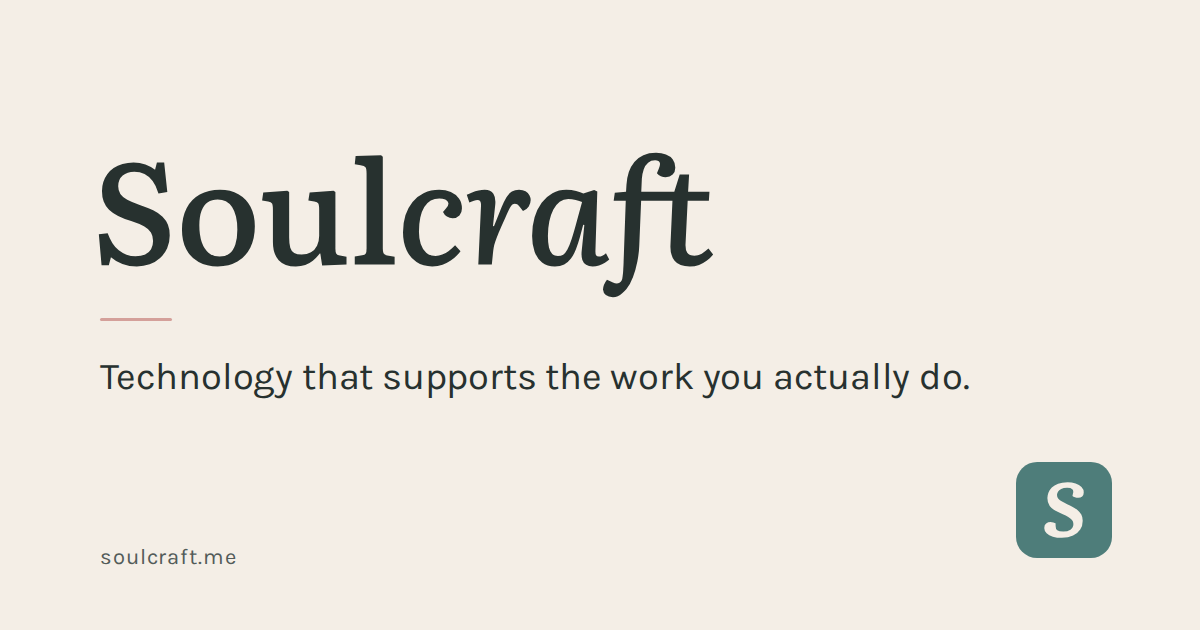
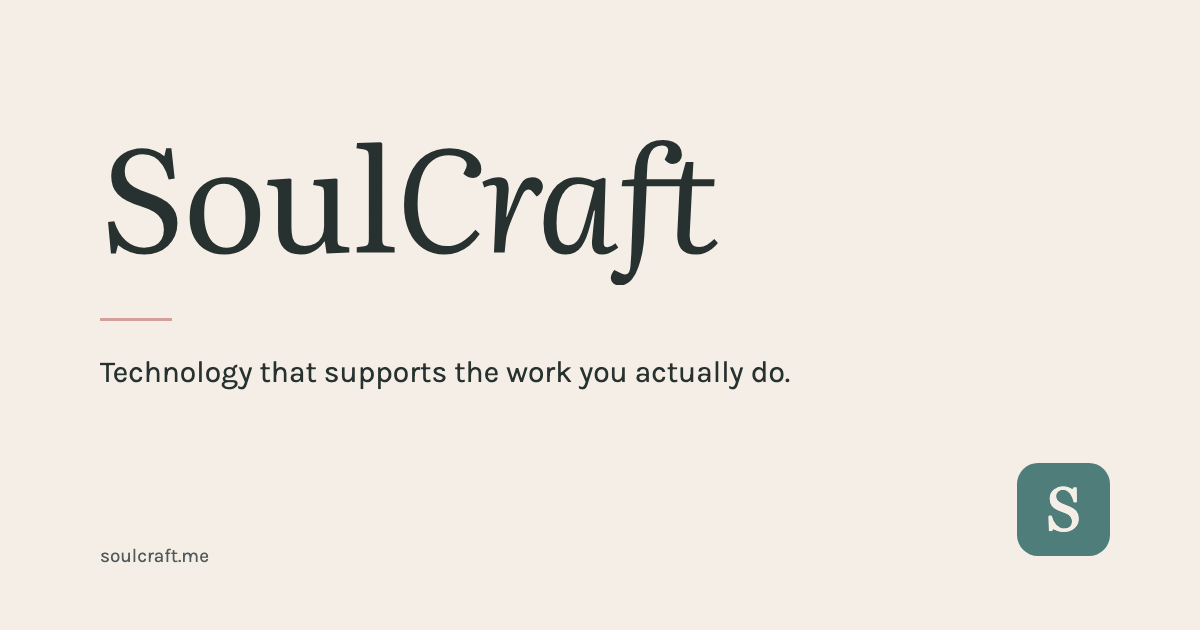
SoulCraft wordmark, two hero pills, card footer, About last
Four things Ed asked for on 2026-10-05.

Logo: the C of Craft is now capital. Regenerated from the Literata variable
outlines rather than edited, so the shapes are genuine. Identifying the
original's settings mattered: a first attempt at weight 500 / opsz 72 came out
visibly finer than the shipped asset, so I pixel-diffed candidates against
assets/logo.svg and matched it at weight 400, opsz 36, tracking -0.02em. BRAND.md
claimed 500 and -0.01em and had never matched the asset; it now records what is
actually true, plus how to regenerate. Ratio moves 4.145 to 4.262, so the nav and
footer width attributes move with it.

The two email PNGs keep their exact 680x168 canvas. Emails already sitting in
inboxes hardcode width=150 height=37, so a new aspect ratio would squash the logo
in mail already sent; the wordmark is fitted inside the old canvas instead.
og.png regenerated in the same composition.

Hero: the plain underlined link becomes a second pill in rose with ink text
(5.93:1), so the two calls to action read as siblings rather than a button and an
afterthought.

Quick-Win card: 'Not sure yet? Email...' and the Instagram line move out of the
right column into a full-width row under both columns, separated by a hairline.
They were never part of the booking flow and were squeezing the column.

About moves after Path Collective, so the page order finally matches the nav:
Consulting, Podcast, Path Collective, About.
[…]

diff --git a/index.html b/index.html
@@ -97,7 +97,7 @@
 
 <header class="site-nav">
   <div class="wrap">
-    <a class="brand" href="#top"><img src="assets/logo.svg" alt="Soulcraft" width="149" height="36"></a>
+    <a class="brand" href="#top"><img src="assets/logo.svg" alt="Soulcraft" width="153" height="36"></a>
     <button class="nav-toggle" type="button" aria-expanded="false" aria-controls="nav-menu">
       <svg class="ico-menu" viewBox="0 0 24 24" fill="none" stroke="currentColor" stroke-width="1.75" stroke-linecap="round" stroke-linejoin="round" aria-hidden="true"><path d="M4 7h16M4 12h16M4 17h16"/></svg>
       <svg class="ico-close" viewBox="0 0 24 24" fill="none" stroke="currentColor" stroke-width="1.75" stroke-linecap="round" stroke-linejoin="round" aria-hidden="true"><path d="M6 6l12 12M18 6L6 18"/></svg>
@@ -124,7 +124,7 @@
         <p class="hero__sub">I help facilitators, community builders and small practices make their tools work for them, starting with <em>one small, useful thing</em>, and growing from there.</p>
         <div class="hero__actions">
           <a class="btn btn--primary" href="#quick-win">Start with a Quick-Win Session ↓</a>
-          <a class="hero__secondary" href="#podcast">Listen to Behind The Practice ↓</a>
+          <a class="btn btn--rose" href="#podcast">Listen to Behind The Practice ↓</a>
         </div>
       </div>
       <div class="hero__art" aria-hidden="true">
@@ -192,6 +192,8 @@
           <p class="qw__credit">If we go on to build something together within 30 days, the $149 comes off the first invoice.</p>
           <p class="qw__flow muted">Pay, then pick a time that suits you. Sessions run Tuesday to Thursday, 10am to 4pm Melbourne. If none of the times work, email me at <a href="mailto:eduardo@soulcraft.me?subject=Quick-Win%20Session%20time">eduardo@soulcraft.me</a> and we'll lock one in together.</p>
           <a class="btn btn--primary js-book" href="#quick-win">Book a Quick-Win Session</a>
+        </div>
+        <div class="qw__foot">
           <p class="qw__hi">Not sure yet? Email <a class="js-sayhi" href="mailto:eduardo@soulcraft.me?subject=Say%20hi">eduardo@soulcraft.me</a> or message me on Instagram. A message costs nothing.</p>
           <p class="qw__ig small"><a class="iconlink" href="https://www.instagram.com/eduardo.mexaus" target="_blank" rel="noopener"><svg class="ico ico--brand" viewBox="0 0 24 24" aria-hidden="true"><path d="M7.0301.084c-1.2768.0602-2.1487.264-2.911.5634-.7888.3075-1.4575.72-2.1228 1.3877-.6652.6677-1.075 1.3368-1.3802 2.127-.2954.7638-.4956 1.6365-.552 2.914-.0564 1.2775-.0689 1.6882-.0626 4.947.0062 3.2586.0206 3.6671.0825 4.9473.061 1.2765.264 2.1482.5635 2.9107.308.7889.72 1.4573 1.388 2.1228.6679.6655 1.3365 1.0743 2.1285 1.38.7632.295 1.6361.4961 2.9134.552 1.2773.056 1.6884.069 4.9462.0627 3.2578-.0062 3.668-.0207 4.9478-.0814 1.28-.0607 2.147-.2652 2.9098-.5633.7889-.3086 1.4578-.72 2.1228-1.3881.665-.6682 1.0745-1.3378 1.3795-2.1284.2957-.7632.4966-1.636.552-2.9124.056-1.2809.0692-1.6898.063-4.948-.0063-3.2583-.021-3.6668-.0817-4.9465-.0607-1.2797-.264-2.1487-.5633-2.9117-.3084-.7889-.72-1.4568-1.3876-2.1228C21.2982 1.33 20.628.9208 19.8378.6165 19.074.321 18.2017.1197 16.9244.0645 15.6471.0093 15.236-.005 11.977.0014 8.718.0076 8.31.0215 7.0301.0839m.1402 21.6932c-1.17-.0509-1.8053-.2453-2.2287-.408-.5606-.216-.96-.4771-1.3819-.895-.422-.4178-.6811-.8186-.9-1.378-.1644-.4234-.3624-1.058-.4171-2.228-.0595-1.2645-.072-1.6442-.079-4.848-.007-3.2037.0053-3.583.0607-4.848.05-1.169.2456-1.805.408-2.2282.216-.5613.4762-.96.895-1.3816.4188-.4217.8184-.6814 1.3783-.9003.423-.1651 1.0575-.3614 2.227-.4171 1.2655-.06 1.6447-.072 4.848-.079 3.2033-.007 3.5835.005 4.8495.0608 1.169.0508 1.8053.2445 2.228.408.5608.216.96.4754 1.3816.895.4217.4194.6816.8176.9005 1.3787.1653.4217.3617 1.056.4169 2.2263.0602 1.2655.0739 1.645.0796 4.848.0058 3.203-.0055 3.5834-.061 4.848-.051 1.17-.245 1.8055-.408 2.2294-.216.5604-.4763.96-.8954 1.3814-.419.4215-.8181.6811-1.3783.9-.4224.1649-1.0577.3617-2.2262.4174-1.2656.0595-1.6448.072-4.8493.079-3.2045.007-3.5825-.006-4.848-.0608M16.953 5.5864A1.44 1.44 0 1 0 18.39 4.144a1.44 1.44 0 0 0-1.437 1.4424M5.8385 12.012c.0067 3.4032 2.7706 6.1557 6.173 6.1493 3.4026-.0065 6.157-2.7701 6.1506-6.1733-.0065-3.4032-2.771-6.1565-6.174-6.1498-3.403.0067-6.156 2.771-6.1496 6.1738M8 12.0077a4 4 0 1 1 4.008 3.9921A3.9996 3.9996 0 0 1 8 12.0077"/></svg><span>@eduardo.mexaus</span></a></p>
         </div>
@@ -255,6 +257,24 @@
     </div>
   </section>
 
+
+  <section class="section section--white" id="path" aria-labelledby="path-h">
+    <div class="wrap">
+      <div class="path">
+        <div class="path__logo">
+          <img src="assets/path-collective-logo.png" alt="Path Collective" width="240" height="118" loading="lazy" decoding="async">
+        </div>
+        <div class="path__text">
+          <p class="eyebrow">Path Collective</p>
+          <h2 id="path-h">I co-founded Path Collective.</h2>
+          <p>A community platform where people discover and book trusted holistic wellness events, retreats and facilitators, and where facilitators are found for the depth of their work rather than the size of their following.</p>
+          <p class="path__phase"><span class="badge">Soft launch running, invite only</span> The soft launch is already running with our first founding facilitators and ambassadors. Access is by invitation only for now; the waitlist is how you get one. Public launch in Australia early 2027.</p>
+          <a class="btn btn--secondary" href="https://pathcollective.com/" target="_blank" rel="noopener">Join the waitlist →</a>
+        </div>
+      </div>
+    </div>
+  </section>
+
   <section class="section section--pebble" id="about" aria-labelledby="about-h">
     <div class="wrap">
       <div class="about">
@@ -286,23 +306,6 @@
             <p>Different hats, different channels, different tools. <em>One purpose: to serve.</em></p>
             <a class="btn btn--secondary iconlink" href="https://www.instagram.com/eduardo.mexaus" target="_blank" rel="noopener"><svg class="ico ico--brand" viewBox="0 0 24 24" aria-hidden="true"><path d="M7.0301.084c-1.2768.0602-2.1487.264-2.911.5634-.7888.3075-1.4575.72-2.1228 1.3877-.6652.6677-1.075 1.3368-1.3802 2.127-.2954.7638-.4956 1.6365-.552 2.914-.0564 1.2775-.0689 1.6882-.0626 4.947.0062 3.2586.0206 3.6671.0825 4.9473.061 1.2765.264 2.1482.5635 2.9107.308.7889.72 1.4573 1.388 2.1228.6679.6655 1.3365 1.0743 2.1285 1.38.7632.295 1.6361.4961 2.9134.552 1.2773.056 1.6884.069 4.9462.0627 3.2578-.0062 3.668-.0207 4.9478-.0814 1.28-.0607 2.147-.2652 2.9098-.5633.7889-.3086 1.4578-.72 2.1228-1.3881.665-.6682 1.0745-1.3378 1.3795-2.1284.2957-.7632.4966-1.636.552-2.9124.056-1.2809.0692-1.6898.063-4.948-.0063-3.2583-.021-3.6668-.0817-4.9465-.0607-1.2797-.264-2.1487-.5633-2.9117-.3084-.7889-.72-1.4568-1.3876-2.1228C21.2982 1.33 20.628.9208 19.8378.6165 19.074.321 18.2017.1197 16.9244.0645 15.6471.0093 15.236-.005 11.977.0014 8.718.0076 8.31.0215 7.0301.0839m.1402 21.6932c-1.17-.0509-1.8053-.2453-2.2287-.408-.5606-.216-.96-.4771-1.3819-.895-.422-.4178-.6811-.8186-.9-1.378-.1644-.4234-.3624-1.058-.4171-2.228-.0595-1.2645-.072-1.6442-.079-4.848-.007-3.2037.0053-3.583.0607-4.848.05-1.169.2456-1.805.408-2.2282.216-.5613.4762-.96.895-1.3816.4188-.4217.8184-.6814 1.3783-.9003.423-.1651 1.0575-.3614 2.227-.4171 1.2655-.06 1.6447-.072 4.848-.079 3.2033-.007 3.5835.005 4.8495.0608 1.169.0508 1.8053.2445 2.228.408.5608.216.96.4754 1.3816.895.4217.4194.6816.8176.9005 1.3787.1653.4217.3617 1.056.4169 2.2263.0602 1.2655.0739 1.645.0796 4.848.0058 3.203-.0055 3.5834-.061 4.848-.051 1.17-.245 1.8055-.408 2.2294-.216.5604-.4763.96-.8954 1.3814-.419.4215-.8181.6811-1.3783.9-.4224.1649-1.0577.3617-2.2262.4174-1.2656.0595-1.6448.072-4.8493.079-3.2045.007-3.5825-.006-4.848-.0608M16.953 5.5864A1.44 1.44 0 1 0 18.39 4.144a1.44 1.44 0 0 0-1.437 1.4424M5.8385 12.012c.0067 3.4032 2.7706 6.1557 6.173 6.1493 3.4026-.0065 6.157-2.7701 6.1506-6.1733-.0065-3.4032-2.771-6.1565-6.174-6.1498-3.403.0067-6.156 2.771-6.1496 6.1738M8 12.0077a4 4 0 1 1 4.008 3.9921A3.9996 3.9996 0 0 1 8 12.0077"/></svg><span>@eduardo.mexaus</span></a>
           </div>
-        </div>
-      </div>
-    </div>
-  </section>
-
-  <section class="section section--white" id="path" aria-labelledby="path-h">
-    <div class="wrap">
-      <div class="path">
-        <div class="path__logo">
-          <img src="assets/path-collective-logo.png" alt="Path Collective" width="240" height="118" loading="lazy" decoding="async">
-        </div>
-        <div class="path__text">
-          <p class="eyebrow">Path Collective</p>
-          <h2 id="path-h">I co-founded Path Collective.</h2>
-          <p>A community platform where people discover and book trusted holistic wellness events, retreats and facilitators, and where facilitators are found for the depth of their work rather than the size of their following.</p>
-          <p class="path__phase"><span class="badge">Soft launch running, invite only</span> The soft launch is already running with our first founding facilitators and ambassadors. Access is by invitation only for now; the waitlist is how you get one. Public launch in Australia early 2027.</p>
-          <a class="btn btn--secondary" href="https://pathcollective.com/" target="_blank" rel="noopener">Join the waitlist →</a>
         </div>
       </div>
     </div>
@@ -367,7 +370,7 @@
       </div>
     </div>
     <div class="footer__legal">
-      <a class="footer__brand" href="#top"><img src="assets/logo-on-dark.svg" alt="Soulcraft" width="116" height="28" loading="lazy"></a>
+      <a class="footer__brand" href="#top"><img src="assets/logo-on-dark.svg" alt="Soulcraft" width="119" height="28" loading="lazy"></a>
       <p class="small muted">© 2026 Eduardo Rivas · soulcraft.me</p>
     </div>
   </div>

diff --git a/styles.css b/styles.css
@@ -95,6 +95,8 @@ a:hover{color:var(--ink)}
 .btn--secondary{background:transparent;border-color:var(--ink);color:var(--ink)}
 .btn--secondary:hover{background:color-mix(in srgb,var(--ink) 8%,transparent);color:var(--ink);transform:translateY(-2px)}
 .section--night .btn--secondary{border-color:var(--on-dark);color:var(--on-dark)}
+.btn--rose{background:var(--rose);border-color:var(--rose);color:var(--ink)}
+.btn--rose:hover{background:var(--rose);border-color:var(--rose-deep);color:var(--ink);transform:translateY(-2px);box-shadow:0 6px 16px rgba(39,49,47,.12)}
 .btn:focus-visible{outline:3px solid var(--rose);outline-offset:2px}
 @media (prefers-reduced-motion:reduce){.btn:hover{transform:none}}
 
@@ -171,7 +173,6 @@ html{scroll-padding-top:72px}
 .hero__text{max-width:38rem}
 .hero__sub{font-size:clamp(1.125rem,1.6vw,1.25rem);color:var(--stone);max-width:34rem;margin:1.25rem 0 2rem}
 .hero__actions{display:flex;flex-wrap:wrap;align-items:center;gap:1rem 1.5rem}
-.hero__secondary{font-weight:500}
 .hero__art{display:none}
 @media (min-width:860px){
   .hero__grid{grid-template-columns:minmax(0,7fr) minmax(0,5fr)}
@@ -199,6 +200,8 @@ html{scroll-padding-top:72px}
 .qw__list li{margin-bottom:.5rem}
 .qw__list li::marker{color:var(--euc)}
 .qw__side{display:flex;flex-direction:column;gap:.9rem;padding:1.5rem;border-radius:12px;background:var(--sand)}
+.qw__foot{grid-column:1 / -1;display:flex;flex-wrap:wrap;justify-content:space-between;align-items:center;gap:.5rem 1.5rem;padding-top:1.5rem;border-top:1px solid var(--hair)}
+.qw__foot p{margin:0}
 .qw__side > *{margin:0}
 .qw__credit{font-family:var(--display);font-style:italic;font-variation-settings:"opsz" 72;font-size:1.1rem}
 .qw__side .btn{align-self:flex-start;margin-top:.25rem}

diff --git a/thanks.html b/thanks.html
@@ -17,7 +17,7 @@
 
 <header class="site-nav">
   <div class="wrap">
-    <a class="brand" href="/"><img src="assets/logo.svg" alt="Soulcraft" width="149" height="36"></a>
+    <a class="brand" href="/"><img src="assets/logo.svg" alt="Soulcraft" width="153" height="36"></a>
     <button class="nav-toggle" type="button" aria-expanded="false" aria-controls="nav-menu">
       <svg class="ico-menu" viewBox="0 0 24 24" fill="none" stroke="currentColor" stroke-width="1.75" stroke-linecap="round" stroke-linejoin="round" aria-hidden="true"><path d="M4 7h16M4 12h16M4 17h16"/></svg>
       <svg class="ico-close" viewBox="0 0 24 24" fill="none" stroke="currentColor" stroke-width="1.75" stroke-linecap="round" stroke-linejoin="round" aria-hidden="true"><path d="M6 6l12 12M18 6L6 18"/></svg>
@@ -140,7 +140,7 @@
       </div>
     </div>
     <div class="footer__legal">
-      <a class="footer__brand" href="#top"><img src="assets/logo-on-dark.svg" alt="Soulcraft" width="116" height="28" loading="lazy"></a>
+      <a class="footer__brand" href="#top"><img src="assets/logo-on-dark.svg" alt="Soulcraft" width="119" height="28" loading="lazy"></a>
       <p class="small muted">© 2026 Eduardo Rivas · soulcraft.me</p>
     </div>
   </div>

diff --git a/welcome.html b/welcome.html
@@ -17,7 +17,7 @@
 
 <header class="site-nav">
   <div class="wrap">
-    <a class="brand" href="/"><img src="assets/logo.svg" alt="Soulcraft" width="149" height="36"></a>
+    <a class="brand" href="/"><img src="assets/logo.svg" alt="Soulcraft" width="153" height="36"></a>
     <button class="nav-toggle" type="button" aria-expanded="false" aria-controls="nav-menu">
       <svg class="ico-menu" viewBox="0 0 24 24" fill="none" stroke="currentColor" stroke-width="1.75" stroke-linecap="round" stroke-linejoin="round" aria-hidden="true"><path d="M4 7h16M4 12h16M4 17h16"/></svg>
       <svg class="ico-close" viewBox="0 0 24 24" fill="none" stroke="currentColor" stroke-width="1.75" stroke-linecap="round" stroke-linejoin="round" aria-hidden="true"><path d="M6 6l12 12M18 6L6 18"/></svg>
@@ -108,7 +108,7 @@
       </div>
     </div>
     <div class="footer__legal">
-      <a class="footer__brand" href="#top"><img src="assets/logo-on-dark.svg" alt="Soulcraft" width="116" height="28" loading="lazy"></a>
+      <a class="footer__brand" href="#top"><img src="assets/logo-on-dark.svg" alt="Soulcraft" width="119" height="28" loading="lazy"></a>
       <p class="small muted">© 2026 Eduardo Rivas · soulcraft.me</p>
     </div>
   </div>

diff --git a/docs/BRAND.md b/docs/BRAND.md
@@ -47,7 +47,7 @@ Dark mode: not required for v1. Set `color-scheme: light`.
 
 ## 3. Shape, surface, motion
 
-- Buttons: **pill** (`border-radius: 999px`), solid euc with bone text; hover euc-deep + `translateY(-2px)`; focus ring 3 px rose at 2 px offset. Secondary: 1.5 px ink outline, transparent fill. (Pills are the family trait shared with Wellmate; keep them.)
+- Buttons: **pill** (`border-radius: 999px`), solid euc with bone text; hover euc-deep + `translateY(-2px)`; focus ring 3 px rose at 2 px offset. Secondary: 1.5 px ink outline, transparent fill. Rose variant (`.btn--rose`, rose fill, ink text, 5.9:1) for the hero's second call to action only. (Pills are the family trait shared with Wellmate; keep them.)
 - Cards: 14 px radius, `--white` on pebble/sand or `--sand` on bone, 1 px `--hair` border, shadow no heavier than `0 1px 0 var(--hair)`.
 - Inputs: 10 px radius, sand fill, hair border, euc focus ring.
 - Texture: none, this palette wants clean, soft surfaces. No grain, no gradients except a very subtle night → night-deep on the footer.
@@ -61,8 +61,10 @@ Dark mode: not required for v1. Set `color-scheme: light`.
 
 ## 5. Logo, wordmark only (chosen: "roman + italic halves")
 
-- **No pictorial mark.** The logo is the word set in Literata 500: `Soul` in roman + `craft` in italic, no space, no colour change, ink on light / bone on dark. Letter-spacing −0.01em. Example: <span>Soul<em>craft</em></span>.
-- Provide `assets/logo.svg` (text converted to outlines so it does not depend on the webfont; render it with Playwright/resvg from an HTML snippet using the loaded Google Font, or trace via `opentype.js`, commit the outlined SVG), plus `assets/logo-on-dark.svg`.
+- **No pictorial mark.** The logo is the word set in Literata 500: `Soul` in roman + `Craft` in italic with a capital C (Ed, 2026-10-05), no space, no colour change, ink on light / bone on dark. Letter-spacing −0.01em. Example: <span>Soul<em>Craft</em></span>. The written name in prose stays "Soulcraft".
+- Provide `assets/logo.svg` (text converted to outlines so it does not depend on the webfont), plus `assets/logo-on-dark.svg`.
+- **Exact settings, measured from the shipped asset on 2026-10-05 and used to regenerate it:** Literata variable, **weight 400**, **opsz 36**, tracking **-0.02em**. (This paragraph previously said 500 and -0.01em; the asset never matched that, so the asset won.) Regenerate with `fontkit`: lay out `Soul` in the roman and `Craft` in the italic, advance by `xAdvance + (-0.02 x unitsPerEm)` between glyphs, union the glyph paths, and wrap in `<g transform="scale(1,-1)">` with `viewBox="0 -maxY width height"` taken from the real ink box. Resulting ratio 4.262:1.
+- The wordmark also exists as `assets/logo-email.png` and `assets/logo-email-on-dark.png` (both **exactly 680x168**, the wordmark fitted inside with padding). Keep that canvas size: emails already in inboxes hardcode `width="150" height="37"` and `width="116" height="29"`, so changing the aspect ratio would squash the logo in mail already sent.
 - **Favicon / app icon** (a wordmark does not read at 16 px): a rounded square (radius 22%) filled euc, with a single Literata italic lowercase **s** in bone centred, optically sized to ~62% of the tile. `assets/favicon.svg`, `assets/apple-touch-icon.png` (180 px), and `assets/og.png` (1200×630: wordmark large on bone, tagline in Karla beneath, a rose rule between them, the favicon tile small in a corner).
 - Nav uses the wordmark at ~24 px cap height; footer the on-dark version.
 

diff --git a/docs/CONTENT.md b/docs/CONTENT.md
@@ -19,7 +19,7 @@ H1: **Technology that supports the work you actually do.**
 Sub: I help facilitators, community builders and small practices make their tools work for them, starting with one small, useful thing, and growing from there.
 
 Primary CTA (button, scrolls to #quick-win): Start with a Quick-Win Session ↓
-Secondary: Listen to Behind The Practice ↓ (→ #podcast)
+Secondary (a second pill, rose with ink text, beside the first): Listen to Behind The Practice ↓ (→ #podcast)
 
 House rule: never use the em dash character anywhere on the site.
 
@@ -50,6 +50,8 @@ What happens next (three steps under the card):
 1. **Chat**, Book a Quick-Win Session or just say hi. We talk about how things really run.
 2. **Quick win**, You get one small change you can make this month, and a plain note on what's possible later.
 3. **Grow when you're ready**, If and when you want more, we build it in small, affordable steps, on what you already own.
+
+Card footer, full width under both columns (Ed, 2026-10-05): "Not sure yet? Email eduardo@soulcraft.me or message me on Instagram. A message costs nothing." · @eduardo.mexaus
 
 ## Consulting services (`#services`)
 
@@ -88,6 +90,19 @@ If you hold space and care about co-creation, there's a seat here for you.
 - You're up for an honest, unhurried conversation, no script, no selling.
 Reach out at [eduardo@soulcraft.me] or [send me a message on Instagram].
 
+## Path Collective (`#path`)
+
+Eyebrow: Also from this village
+
+H2: Path Collective
+
+Badge: Soft launch running, invite only
+Phase line: The soft launch is already running with our first founding facilitators and ambassadors. Access is by invitation only for now; the waitlist is how you get one. Public launch in Australia early 2027.
+
+P: Soulcraft is where I help you with your tools. Path Collective is where people find you: a curated platform to discover and book trusted wellness events, retreats and facilitators. Our first founding facilitators and ambassadors are joining now for the soft launch; public launch in Australia early 2027.
+
+Link: Join the waitlist →
+
 ## About (`#about`)
 
 Eyebrow: About
@@ -102,19 +117,6 @@ The three hats (each a small card with a link):
 - **Path Collective**, co-founder. A platform to find and book trusted wellness events and facilitators. Soft launching now. → pathcollective.com
 
 Closing line: Different hats, different channels, different tools. *One purpose: to serve.* + Instagram pill @eduardo.mexaus
-
-## Path Collective (`#path`)
-
-Eyebrow: Also from this village
-
-H2: Path Collective
-
-Badge: Soft launch running, invite only
-Phase line: The soft launch is already running with our first founding facilitators and ambassadors. Access is by invitation only for now; the waitlist is how you get one. Public launch in Australia early 2027.
-
-P: Soulcraft is where I help you with your tools. Path Collective is where people find you: a curated platform to discover and book trusted wellness events, retreats and facilitators. Our first founding facilitators and ambassadors are joining now for the soft launch; public launch in Australia early 2027.
-
-Link: Join the waitlist →
 
 ## Stay in touch (`#join`)
 

diff --git a/docs/REQUIREMENTS.md b/docs/REQUIREMENTS.md
@@ -28,12 +28,12 @@ All copy comes from [CONTENT.md](CONTENT.md) verbatim. The agent decides layout 
 | # | Section | id | Background | Notes |
 |---|---|---|---|---|
 | 0 | Nav (sticky) |, | bone, hairline | Logo; links Consulting · Podcast · Path Collective · About; CTA "Book a Quick-Win Session" → `#quick-win`. |
-| 1 | Hero | `#top` | bone | H1 + sub + primary CTA + secondary line "Listen to Behind The Practice ↓" → `#podcast`. Arcs decoration ≥ 860 px. |
+| 1 | Hero | `#top` | bone | H1 + sub + two pills side by side: primary (euc) "Start with a Quick-Win Session ↓" → `#quick-win`, secondary (rose, ink text) "Listen to Behind The Practice ↓" → `#podcast`. Arcs decoration ≥ 860 px. |
 | 2 | What I help with | `#services` | night | 3 service cards (white on night). The AI-learning card was removed in v1.2 (2026-10-05), see CONTENT.md. |
 | 3 | Start with a Quick-Win Session | `#quick-win` | sand | The priced card (hours Tue to Thu, 10am to 4pm, reach-out line) + "What happens next" three-step row beneath it. |
 | 4 | Behind The Practice | `#podcast` | bone | Intro ("This is their microphone."), pull quote, three embeds unchanged, "Come on the show" block with four bullets + reach-out. |
-| 5 | About | `#about` | pebble | Portrait + three hats + Instagram. |
-| 6 | Path Collective | `#path` | white | Logo, badge, two sentences, link. |
+| 5 | Path Collective | `#path` | white | Logo, badge, two sentences, link. |
+| 6 | About | `#about` | pebble | Portrait + three hats + Instagram. Last content section, matching the nav order (Ed, 2026-10-05). |
 | 7 | Stay close to the work | `#join` | sand | Email form + "Unsubscribe anytime." |
 |, | Footer |, | night-deep | Soulcraft (Services · Book) · Podcast · Elsewhere (Path Collective · Instagram) · Contact. Legal: © 2026 Eduardo Rivas · soulcraft.me |
 
